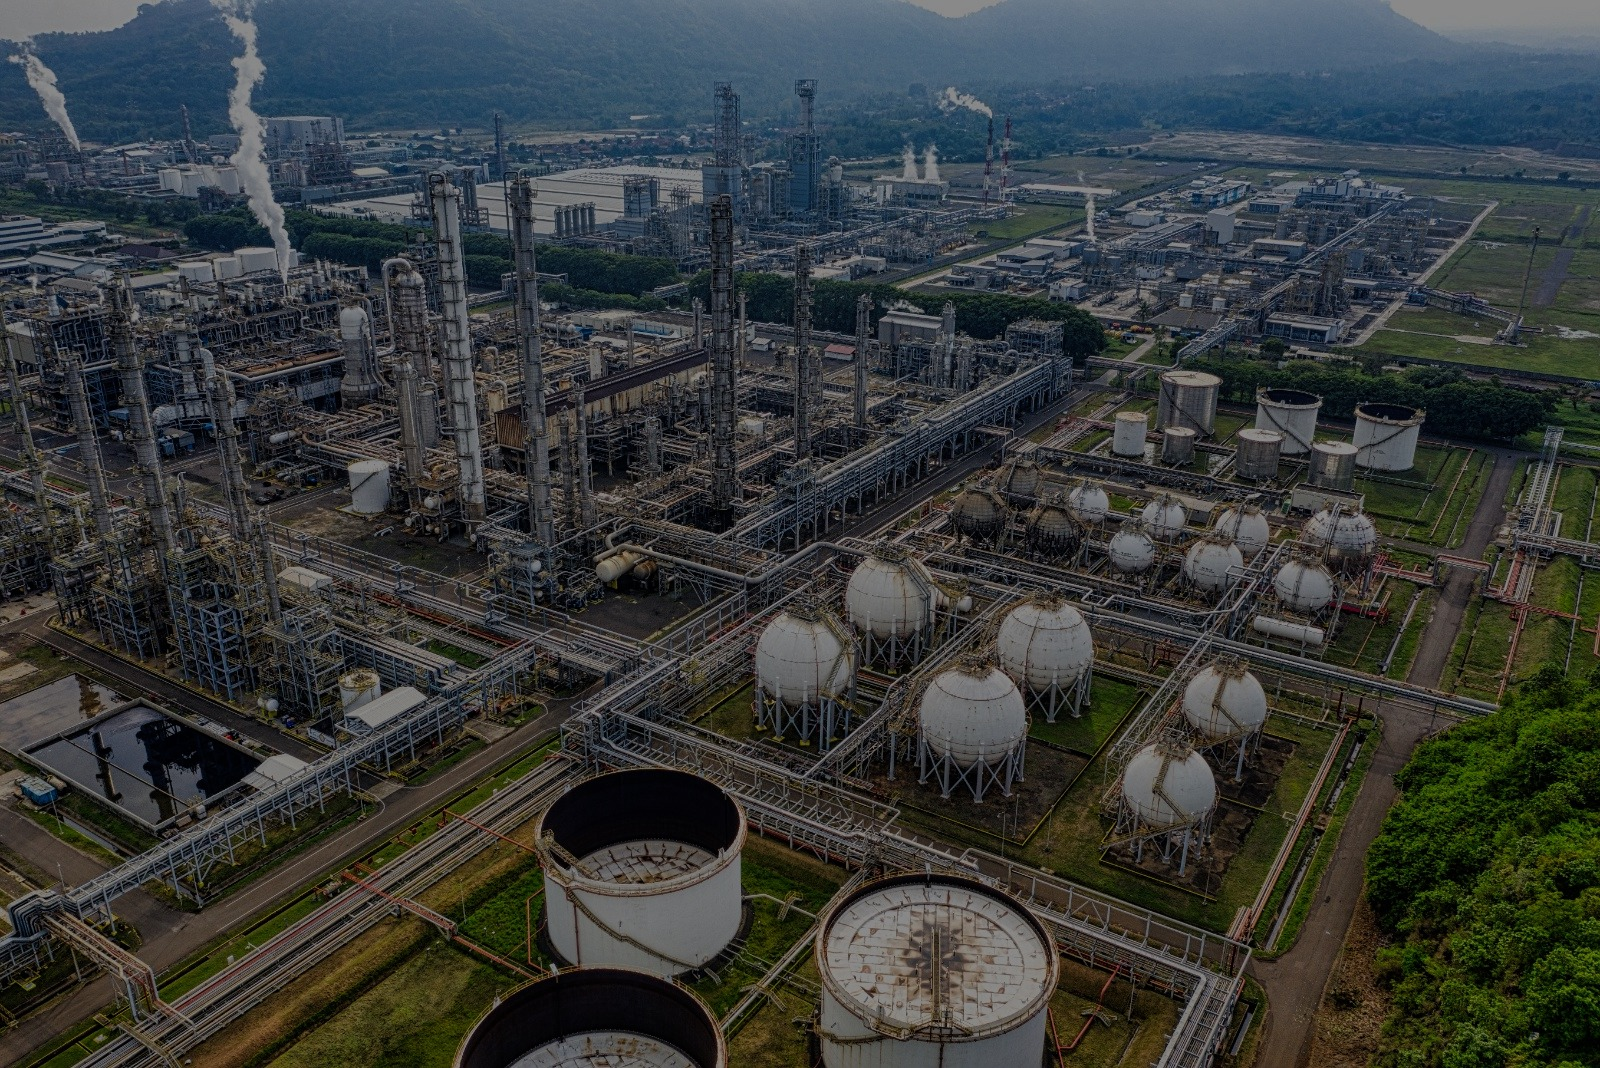
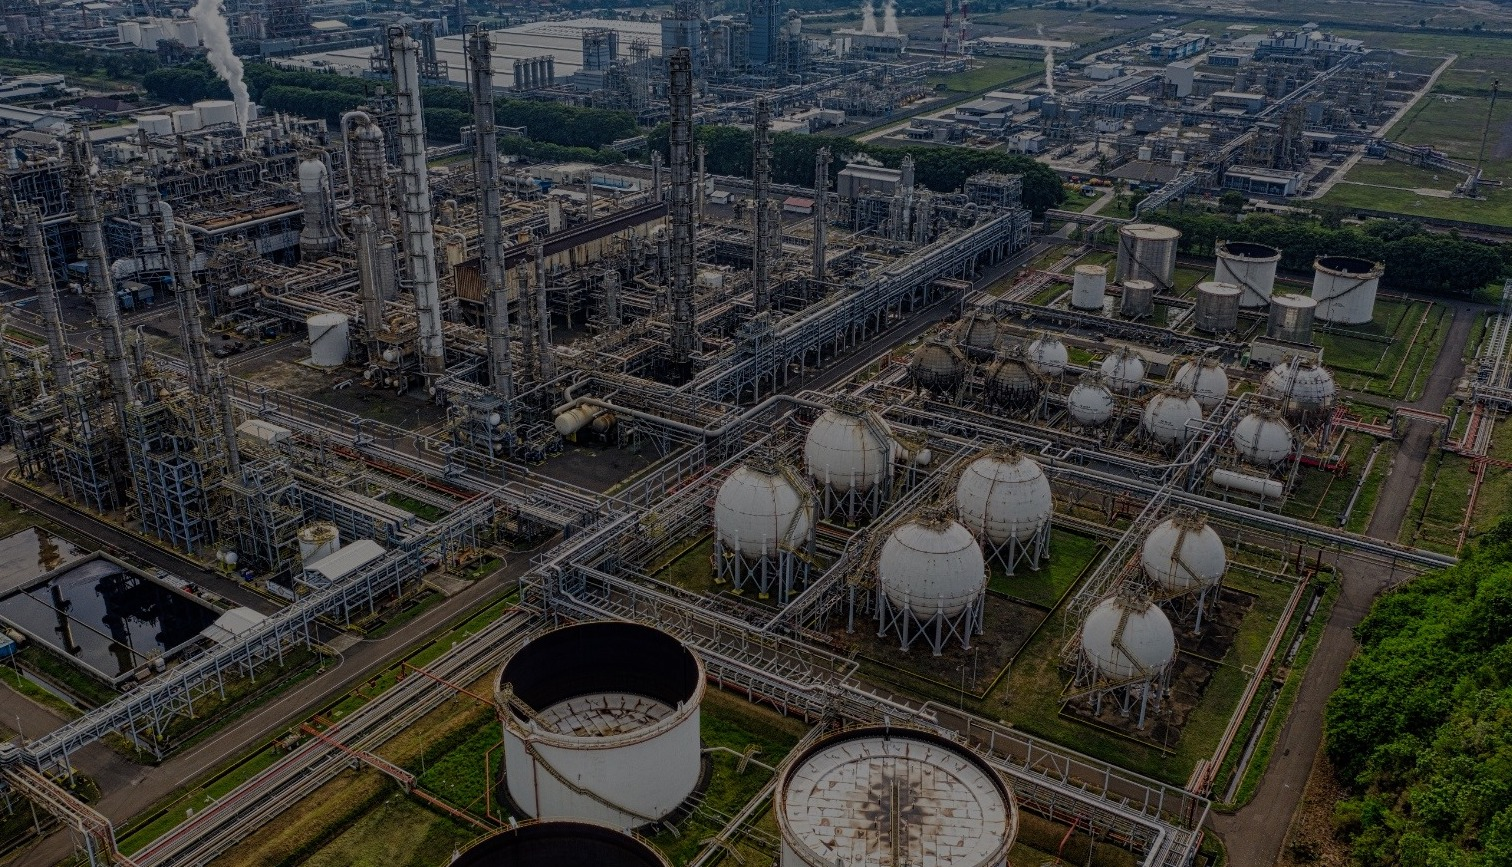
updated slider

diff --git a/index.html b/index.html
@@ -48,13 +48,13 @@
 		<div class="offwrap"></div>
 
 		<!--Preloader start here-->
-	   	<div id="pre-load">
+	   	<!-- <div id="pre-load">
             <div id="loader" class="loader">
                 <div class="loader-container">
                     <div class="loader-icon"><img src="assets/images/new-img/logo.png" alt="Konstruk - Construction & Building Html Template "></div>
                 </div>
             </div>              
-        </div>
+        </div>  -->
 		<!--Preloader area end here-->
 			
 		<!-- Main content Start -->
@@ -221,47 +221,79 @@
 			<!--Full width header End-->
 
 			<!-- Slider Start -->
-			<div id="rs-slider" class="rs-slider rs-slider-style2 rs-slider-style4">
-			    <div class="bend niceties">
-			        <div id="nivoSlider" class="slides">
-			            <img src="assets/images/new-img/offshore.jpg" alt="" title="#slide-1" />
-			            <img src="assets/images/slider/style1/h3-2.jpg" alt="" title="#slide-2" />
-						<img src="assets/images/new-img/offshore.jpg" alt="" title="#slide-2" />
-			        </div>
-			        <!-- Slide 1 -->
-			        <div id="slide-1" class="slider-direction">
-			           <div class="container">
-			           		<div class="content-part text-center">
-			           		    <span class="sl-subtitle">Welcome To cybersprint</span>
-			           		    <h1 class="sl-title">
-			           		    	We provide software solution<br>
-			           		    	to companies that want to increase efficicency
-			           		    </h1>
-			           		   	<div class="slider-bottom">
-			           		   	    <a class="readon more read2" href="#">Get Started</a>
-			           		   	</div>
-			           		</div>
-			           </div>
-			        </div>
-			        <!-- Slide 2 -->
-			        <div id="slide-2" class="slider-direction">
-			        	<div class="container">
-		        			<div class="content-part text-center">
-		        			    <span class="sl-subtitle">Building & Construction</span>
-		        			    <h1 class="sl-title">
-		        			    	Construction services<br>
-		        			    	in new york city 	
-		        			    </h1>
-		        			   	<div class="slider-bottom">
-		        			   	    <a class="readon more read2" href="#">Read More</a>
-		        			   	</div>
-		        			</div>
+			<div class="rs-carousel owl-carousel" data-loop="true" data-items="3" data-autoplay="true" data-hoverpause="true" data-autoplay-timeout="3000" data-smart-speed="800" data-dots="true" data-nav="true" data-nav-speed="true" data-center-mode="true" data-mobile-device="1" data-mobile-device-nav="true" data-mobile-device-dots="true" data-ipad-device="2" data-ipad-device-nav="false" data-ipad-device-dots="true" data-ipad-device2="2" data-ipad-device-nav2="false" data-ipad-device-dots2="true" data-md-device="1" data-md-device-nav="true" data-md-device-dots="true">
+				<div class="rs-slider rs-slider-style2 rs-slider-style4">
+			    	<div class="bend niceties">
+			        	<div id="nivoSlider" class="slide" >
+			            	<img src="assets/images/new-img/offshore.jpg" alt="" title="#slide-1" />
+			            	<img src="assets/images/new-img/oilgreeting.jpeg" alt="" title="#slide-2" />
+							<img src="assets/images/new-img/open-space.jpg" alt="" title="#slide-3" />
+						
 			        	</div>
-			        </div>
-			    </div>
+			        <!-- Slide 1 -->
+			        	<div id="slide-1" class="slider-direction">
+			           		<div class="container">
+			           			<div class="content-part text-center">
+			           		    	<span class="sl-subtitle">Welcome To cybersprint</span>
+			           		    	<h1 class="sl-title">
+			           		    		We provide software solution<br>
+			           		    		to companies that want to increase efficicency
+			           		    	</h1>
+			           		   		<div class="slider-bottom">
+			           		   	    	<a class="readon more read2" href="#">Get Started</a>
+			           		   		</div>
+			           			</div>
+			           		</div>
+			        	</div>
+			        <!-- Slide 2 -->
+			        	<div id="slide-2" class="slider-direction">
+			        		<div class="container">
+		        				<div class="content-part text-center">
+		        			    	<span class="sl-subtitle">Welcome To cybersprint</span>
+		        			    	<h1 class="sl-title">
+		        			    		We provide software solution<br>
+			           		    		to companies that want to increase efficicency	
+		        			    	</h1>
+		        			   		<div class="slider-bottom">
+		        			   	    	<a class="readon more read2" href="#">Read More</a>
+		        			   		</div>
+		        				</div>
+			        		</div>
+			        	</div>
+					<!-- Slide 3 -->
+			        	<div id="slide-3" class="slider-direction">
+			        		<div class="container">
+		        				<div class="content-part text-center">
+		        			    	<span class="sl-subtitle">Welcome To cybersprint</span>
+		        			    	<h1 class="sl-title">
+		        			    		We provide software solution<br>
+			           		    		to companies that want to increase efficicency	
+		        			    	</h1>
+		        			   		<div class="slider-bottom">
+		        			   	    	<a class="readon more read2" href="#">Read More</a>
+		        			   		</div>
+		        				</div>
+			        		</div>
+			        	</div>
+			    	</div>
+				</div>
 			</div>
 			<!-- Slider End -->
-		
+
+			<!-- <div id="slideshow-example" data-component="slideshow">
+				<div role="list" class="container">
+					<div class="slide content-part text-center">
+						<img src="https://images.unsplash.com/photo-1486312338219-ce68d2c6f44d?w=752&ixid=dW5zcGxhc2guY29tOzs7Ozs%3D" alt="">
+					</div>
+					<div class="slide">
+						<img src="https://images.unsplash.com/photo-1488590528505-98d2b5aba04b?w=750&ixid=dW5zcGxhc2guY29tOzs7Ozs%3D" alt="">
+					</div>
+					<div class="slide">
+						<img src="https://images.unsplash.com/photo-1498753427761-548428edfa67?w=889&ixid=dW5zcGxhc2guY29tOzs7Ozs%3D" alt="">
+					</div>
+				</div>
+			</div>
+		 -->
 			<!-- Services Start -->
 			<div class="rs-services services-style2 pb-120 md-pb-0">
 				<div class="container">
@@ -509,7 +541,7 @@
                         </h2>
                         <div class="heading-border-line"></div>
                     </div>
-    				<div class="rs-carousel owl-carousel" data-loop="true" data-items="3" data-margin="30" data-autoplay="true" data-hoverpause="true" data-autoplay-timeout="5000" data-smart-speed="800" data-dots="false" data-nav="false" data-nav-speed="false" data-center-mode="false" data-mobile-device="1" data-mobile-device-nav="false" data-mobile-device-dots="false" data-ipad-device="2" data-ipad-device-nav="false" data-ipad-device-dots="true" data-ipad-device2="2" data-ipad-device-nav2="false" data-ipad-device-dots2="true" data-md-device="3" data-md-device-nav="false" data-md-device-dots="true">
+    				<div class="rs-carousel owl-carousel" data-loop="true" data-items="3" data-margin="30" data-autoplay="true" data-hoverpause="true" data-autoplay-timeout="3000" data-smart-speed="500" data-dots="false" data-nav="false" data-nav-speed="false" data-center-mode="false" data-mobile-device="1" data-mobile-device-nav="false" data-mobile-device-dots="false" data-ipad-device="2" data-ipad-device-nav="false" data-ipad-device-dots="true" data-ipad-device2="2" data-ipad-device-nav2="false" data-ipad-device-dots2="true" data-md-device="3" data-md-device-nav="false" data-md-device-dots="true">
     					<div class="testi-item">
 	                        <div class="testi-wrap">
 	                            <div class="image-wrap">
@@ -570,189 +602,6 @@
 	        	</div>
 	        </div>
 	        <!-- Testimonial Section End -->
-
-    		<!-- Contact Section Start -->
-    		<!-- <div class="rs-contact contact-style1 contact-modify1 pt-120 pb-120 md-pt-80 md-pb-80">
-       	    	<div class="container">
-       	    		<div class="row y-middle">
-       	    			<div class="col-lg-6">
-       	    				<div class="project-img">
-       	    					<img src="assets/images/contact/pro-con.jpg" alt="Contact">
-       	    				</div>
-       	    			</div>
-       	    			<div class="col-lg-6">
-							<div class="contact-section">
-			                    <div class="contact-wrap">
-            						<div class="sec-title2 mb-55 md-mb-35">
-            	                        <span class="sub-title">Contact Us</span>
-            	                        <h2 class="title pb-25">
-            	                           Have an upcoming project?
-            	                        </h2>
-            	                        <div class="heading-border-line left-style"></div>
-            	                    </div>
-			                        <div id="form-messages"></div>
-			                        <form id="contact-form" method="post" action="https://devsdesign.net/products/html/konstruk/mailer.php">
-			                            <fieldset>
-			                                <div class="row">
-			                                    <div class="col-lg-6 col-md-6 col-sm-6 mb-30">
-			                                        <input class="from-control" type="text" id="name" name="name" placeholder="Name" required="">
-			                                    </div> 
-			                                    <div class="col-lg-6 col-md-6 col-sm-6 mb-30">
-			                                        <input class="from-control" type="text" id="email" name="email" placeholder="E-Mail" required="">
-			                                    </div>   
-			                                    <div class="col-lg-6 col-md-6 col-sm-6 mb-30">
-			                                        <input class="from-control" type="text" id="phone" name="phone" placeholder="Phone Number" required="">
-			                                    </div>
-			                                    <div class="col-lg-6 col-md-6 col-sm-6 mb-30">
-			                                        <input class="from-control" type="text" id="website" name="website" placeholder="Your Website" required="">
-			                                    </div>
-			                                    <div class="col-lg-12 mb-30">
-			                                        <textarea class="from-control" id="message" name="message" placeholder="Your Message Here" required=""></textarea>
-			                                    </div>
-			                                </div>
-			                                <div class="btn-part">                                            
-			                                    <div class="form-group mb-0">
-			                                        <input class="readon more submit submit-new" type="submit" value="Submit Now">
-			                                    </div>
-			                                </div> 
-			                            </fieldset>
-			                        </form> 
-			                    </div>
-			                </div>
-       	    			</div>
-       	    		</div>
-       	    	</div>
-    		</div> -->
-    		<!-- Contact Section End -->
-			
-			<!-- Blog Section Start -->
-			<!-- <div id="rs-blog" class="rs-blog blog-main-home blog-modify2 bg5 pt-120 pb-115 md-pt-0 md-pb-80">
-			    <div class="container">  
-			        <div class="row">
-			        	<div class="col-lg-6">
-							<div class="sec-title2 mb-55 md-mb-35">
-		                        <span class="sub-title">Latest News</span>
-		                        <h2 class="title pb-25">
-		                           Read latest updates
-		                        </h2>
-		                        <div class="heading-border-line left-style"></div>
-		                    </div>
-			        	</div>
-			        	<div class="col-lg-6">
-			        		<div class="btn-part text-right md-left md-mb-50">
-                                <a class="readon more discover" href="blog-single.html">View Updates</a>
-                            </div>
-			        	</div>
-			        </div>
-			        <div class="rs-carousel owl-carousel" data-loop="true" data-items="3" data-margin="30" data-autoplay="true" data-hoverpause="true" data-autoplay-timeout="5000" data-smart-speed="800" data-dots="false" data-nav="false" data-nav-speed="false" data-center-mode="false" data-mobile-device="1" data-mobile-device-nav="false" data-mobile-device-dots="false" data-ipad-device="2" data-ipad-device-nav="false" data-ipad-device-dots="true" data-ipad-device2="2" data-ipad-device-nav2="false" data-ipad-device-dots2="true" data-md-device="3" data-md-device-nav="false" data-md-device-dots="true">
-			            <div class="blog-item">
-			                <div class="image-wrap">
-			                    <a href="blog-single.html"><img src="assets/images/blog/style1/1.jpg" alt=""></a>
-			                </div>
-			                <div class="blog-content">
-			                	<ul class="blog-meta">
-			                		<li class="date"><i class="fa fa-calendar-check-o"></i>26 April 2022</li>
-	                           		<li class="admin"><i class="fa fa-user-o"></i>Admin</li>
-	                           	</ul>
-			                    <h3 class="blog-title"><a href="blog-single.html">We really appreciate content about the construction</a></h3>
-			                    <p class="desc">The brand has responded by partnering with skincare experts on social and web...</p>
-			                </div>
-			            </div>
-			            <div class="blog-item">
-			                <div class="image-wrap">
-			                    <a href="blog-single.html"><img src="assets/images/blog/style1/2.jpg" alt=""></a>
-			                </div>
-			                <div class="blog-content">
-			                	<ul class="blog-meta">
-			                		<li class="date"><i class="fa fa-calendar-check-o"></i>26 April 2022</li>
-	                           		<li class="admin"><i class="fa fa-user-o"></i>Admin</li>
-	                           	</ul>
-			                    <h3 class="blog-title"><a href="blog-single.html">Best practices construction law on construction</a></h3>
-			                    <p class="desc">The brand has responded by partnering with skincare experts on social and web...</p>
-			                </div>
-			            </div>
-			            <div class="blog-item">
-			                <div class="image-wrap">
-			                    <a href="blog-single.html"><img src="assets/images/blog/style1/3.jpg" alt=""></a>
-			                </div>
-			                <div class="blog-content">
-			                	<ul class="blog-meta">
-			                		<li class="date"><i class="fa fa-calendar-check-o"></i>26 April 2022</li>
-	                           		<li class="admin"><i class="fa fa-user-o"></i>Admin</li>
-	                           	</ul>
-			                    <h3 class="blog-title"><a href="blog-single.html">Although many people may overlook the need</a></h3>
-			                    <p class="desc">The brand has responded by partnering with skincare experts on social and web...</p>
-			                </div>
-			            </div>
-			            <div class="blog-item">
-			                <div class="image-wrap">
-			                    <a href="blog-single.html"><img src="assets/images/blog/style1/4.jpg" alt=""></a>
-			                </div>
-			                <div class="blog-content">
-			                	<ul class="blog-meta">
-			                		<li class="date"><i class="fa fa-calendar-check-o"></i>26 April 2022</li>
-	                           		<li class="admin"><i class="fa fa-user-o"></i>Admin</li>
-	                           	</ul>
-			                    <h3 class="blog-title"><a href="blog-single.html">Construction executive holds a very special place</a></h3>
-			                    <p class="desc">The brand has responded by partnering with skincare experts on social and web...</p>
-			                </div>
-			            </div>
-			            <div class="blog-item">
-			                <div class="image-wrap">
-			                    <a href="blog-single.html"><img src="assets/images/blog/style1/5.jpg" alt=""></a>
-			                </div>
-			                <div class="blog-content">
-			                	<ul class="blog-meta">
-			                		<li class="date"><i class="fa fa-calendar-check-o"></i>26 April 2022</li>
-	                           		<li class="admin"><i class="fa fa-user-o"></i>Admin</li>
-	                           	</ul>
-			                    <h3 class="blog-title"><a href="blog-single.html">This is another massive sites with a ton of information</a></h3>
-			                    <p class="desc">The brand has responded by partnering with skincare experts on social and web...</p>
-			                </div>
-			            </div>
-			            <div class="blog-item">
-			                <div class="image-wrap">
-			                    <a href="blog-single.html"><img src="assets/images/blog/style1/6.jpg" alt=""></a>
-			                </div>
-			                <div class="blog-content">
-			                	<ul class="blog-meta">
-			                		<li class="date"><i class="fa fa-calendar-check-o"></i>26 April 2022</li>
-	                           		<li class="admin"><i class="fa fa-user-o"></i>Admin</li>
-	                           	</ul>
-			                    <h3 class="blog-title"><a href="blog-single.html">The construction business the owner site is jam-packed</a></h3>
-			                    <p class="desc">The brand has responded by partnering with skincare experts on social and web...</p>
-			                </div>
-			            </div>
-    		            <div class="blog-item">
-    		                <div class="image-wrap">
-    		                    <a href="blog-single.html"><img src="assets/images/blog/style1/1.jpg" alt=""></a>
-    		                </div>
-    		                <div class="blog-content">
-    		                	<ul class="blog-meta">
-    		                		<li class="date"><i class="fa fa-calendar-check-o"></i>26 April 2022</li>
-                               		<li class="admin"><i class="fa fa-user-o"></i>Admin</li>
-                               	</ul>
-    		                    <h3 class="blog-title"><a href="blog-single.html">We really appreciate content about the construction</a></h3>
-    		                    <p class="desc">The brand has responded by partnering with skincare experts on social and web...</p>
-    		                </div>
-    		            </div>
-    		            <div class="blog-item">
-    		                <div class="image-wrap">
-    		                    <a href="blog-single.html"><img src="assets/images/blog/style1/2.jpg" alt=""></a>
-    		                </div>
-    		                <div class="blog-content">
-    		                	<ul class="blog-meta">
-    		                		<li class="date"><i class="fa fa-calendar-check-o"></i>26 April 2022</li>
-                               		<li class="admin"><i class="fa fa-user-o"></i>Admin</li>
-                               	</ul>
-    		                    <h3 class="blog-title"><a href="blog-single.html">Best practices construction law on construction</a></h3>
-    		                    <p class="desc">The brand has responded by partnering with skincare experts on social and web...</p>
-    		                </div>
-    		            </div>
-			        </div>
-			    </div>
-			</div> -->
-			<!-- Blog Section End -->
 
 			<!-- Cta Start -->
 			<div class="rs-cta bg9 pt-116 pb-116 md-pt-76 md-pb-76">

diff --git a/assets/js/main.js b/assets/js/main.js
@@ -31,6 +31,26 @@
         });
 
     });
+    var slideshows = document.querySelectorAll('[data-component="slideshow"]');
+    slideshows.forEach(initSlideShow);
+
+    function initSlideShow(slideshow) {
+
+	var slides = document.querySelectorAll(`#${slideshow.id} [role="list"] .slide`);
+
+	var index = 0, time = 5000;
+	slides[index].classList.add('active');
+
+	setInterval( () => {
+		slides[index].classList.remove('active');
+		
+		index++;
+		if (index === slides.length) index = 0;
+
+		slides[index].classList.add('active');
+
+	}, time);
+    }
 	
     //window load
    $(window).on( 'load', function() {

diff --git a/style.css b/style.css
@@ -11589,3 +11589,12 @@ body .search-modal .close:hover {
     transform: translateY(0);
   }
 }
+
+[data-component="slideshow"] .slide {
+	display: none;
+  text-align: center;
+}
+
+[data-component="slideshow"] .slide.active {
+	display: block;
+}
